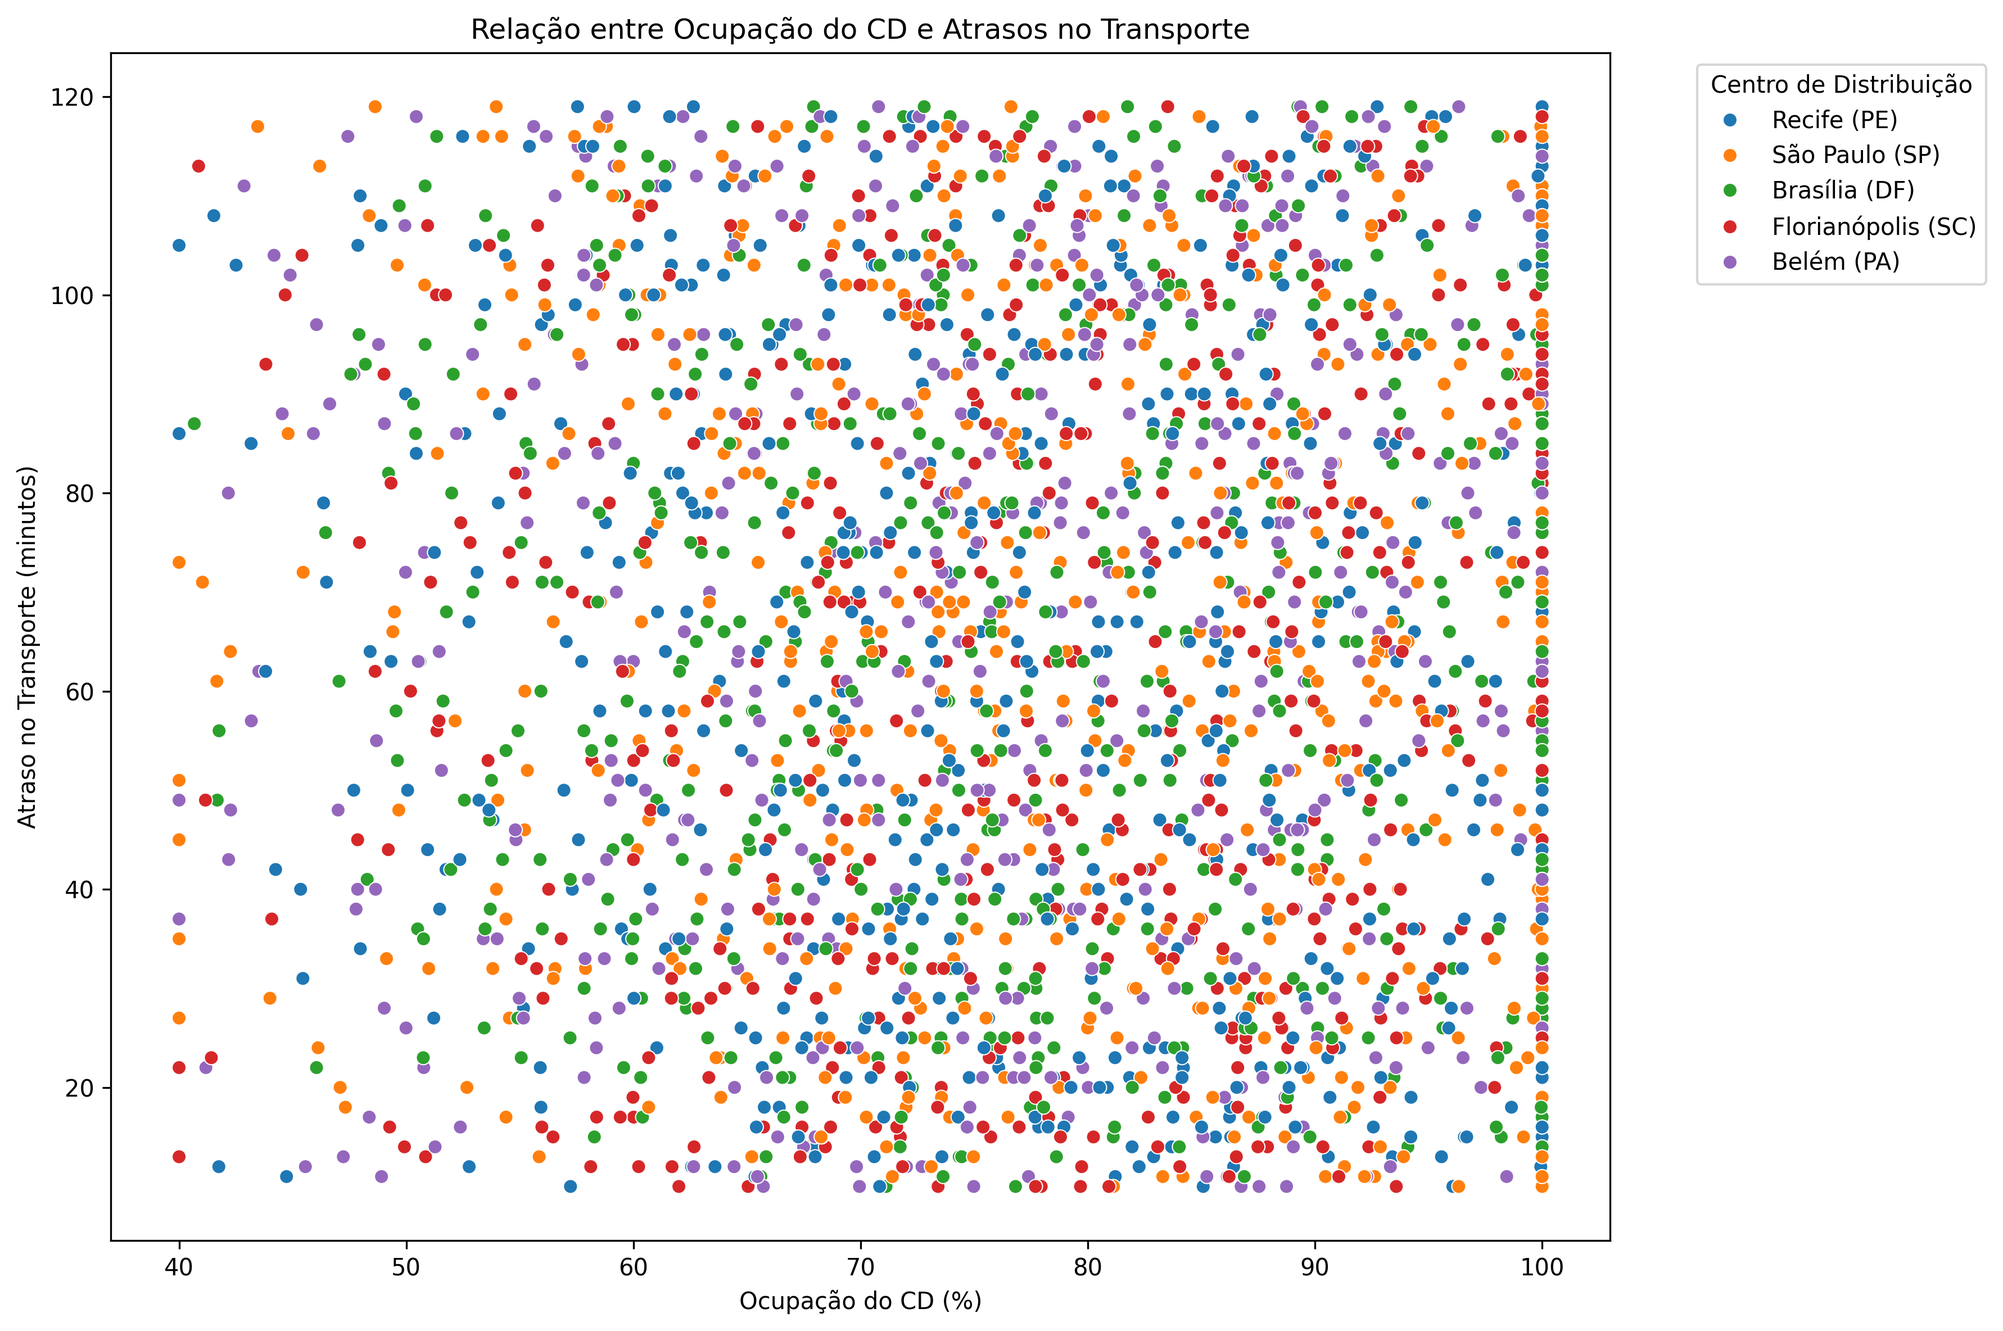
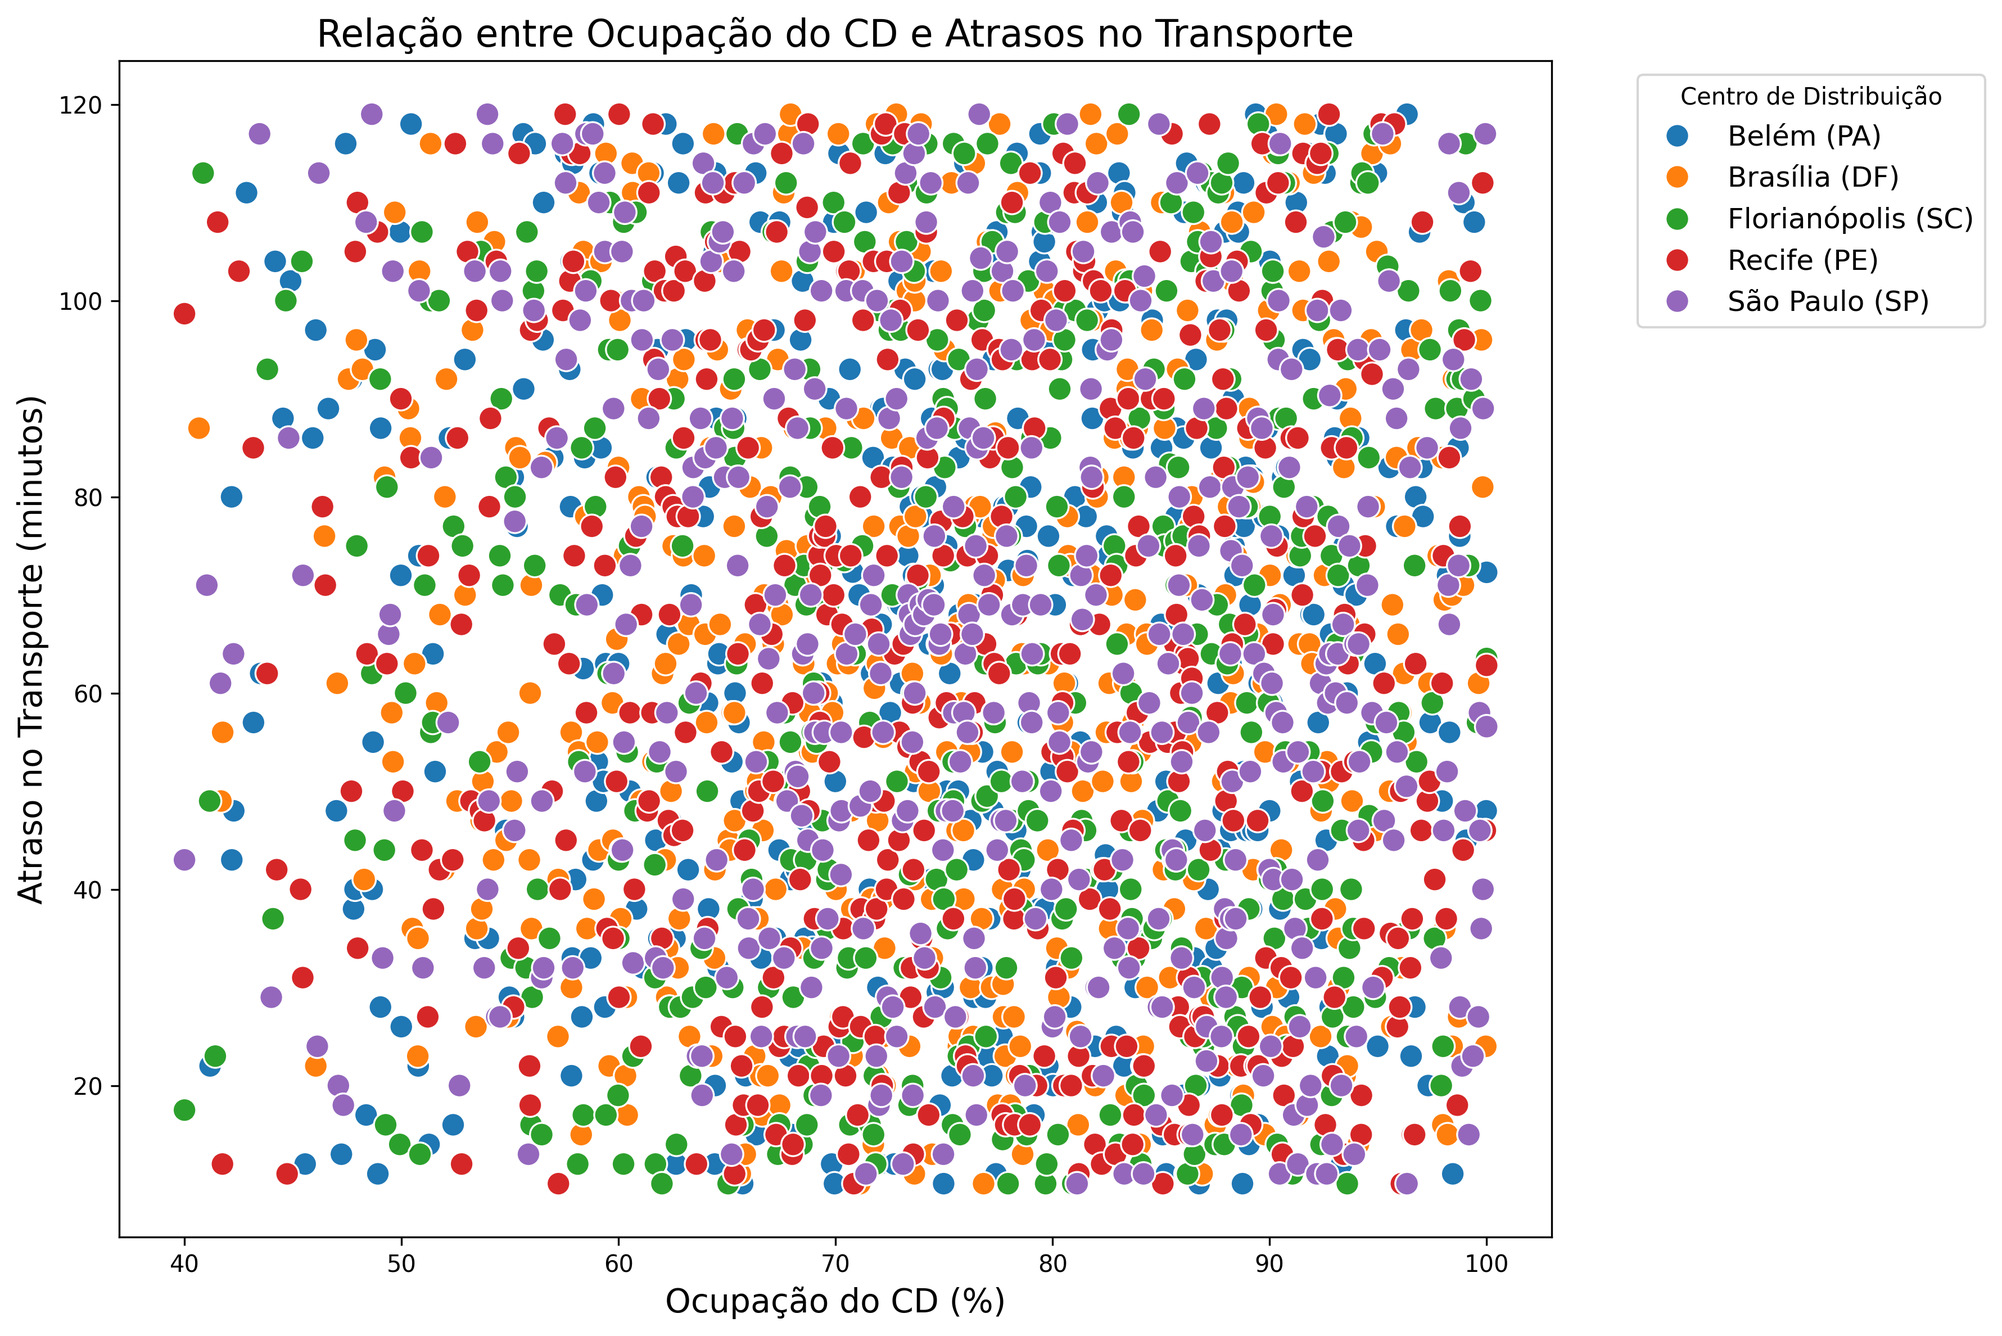
fix: ajustando o gráfico de ocupação por atrasos

diff --git a/scripts/data_analysis.py b/scripts/data_analysis.py
@@ -2,6 +2,7 @@ import pandas as pd
 import matplotlib.pyplot as plt
 import seaborn as sns
 import os
+from unidecode import unidecode
 
 
 PATH_RESOURCES = os.path.join(
@@ -41,12 +42,13 @@ df.sort_values("mes_ano", inplace=True)
 
 print(
     """
-    -----------------------------------------------------------------------------------------------------
-    Gráfico 1: Ocupação Média dos Centros de Distribuição por Mês/Ano
-    Este gráfico mostra a ocupação média de cada centro de distribuição ao longo dos meses/anos.
-    Ele ajuda a identificar sazonalidades e períodos críticos de alta ocupação em cada CD.
-    -----------------------------------------------------------------------------------------------------
-    """
+-----------------------------------------------------------------------------------------------------
+Gráfico 1: Ocupação Média dos Centros de Distribuição por Mês/Ano
+Este gráfico mostra a ocupação média de cada centro de distribuição ao longo dos meses/anos.
+Ele ajuda a identificar sazonalidades e períodos críticos de alta ocupação em cada CD.
+-----------------------------------------------------------------------------------------------------
+    """,
+    end="",
 )
 grouped_data = (
     df.groupby(["mes_ano", "centro_distribuicao"])["percentual_ocupacao_CD"]
@@ -71,12 +73,13 @@ plt.show()
 
 print(
     """
-    -----------------------------------------------------------------------------------------------------
-    Gráfico 2: Heatmap de correlações entre variáveis relacionadas a atrasos
-    Este gráfico mostra as correlações entre variáveis como tempo total de processamento,
-    atraso no transporte e quantidade de itens. Ele ajuda a identificar relações entre essas variáveis.
-    -----------------------------------------------------------------------------------------------------
-"""
+-----------------------------------------------------------------------------------------------------
+Gráfico 2: Heatmap de correlações entre variáveis relacionadas a atrasos
+Este gráfico mostra as correlações entre variáveis como tempo total de processamento,
+atraso no transporte e quantidade de itens. Ele ajuda a identificar relações entre essas variáveis.
+-----------------------------------------------------------------------------------------------------
+""",
+    end="",
 )
 correlation_matrix = df[
     [
@@ -103,12 +106,13 @@ plt.show()
 
 print(
     """
-    -----------------------------------------------------------------------------------------------------
-    Gráfico 3: Boxplot de atrasos por centro de distribuição
-    Este gráfico mostra a distribuição dos atrasos no transporte para cada centro de distribuição.
-    Ele ajuda a identificar quais CDs têm maior variação ou problemas relacionados a atrasos.
-    -----------------------------------------------------------------------------------------------------
-"""
+-----------------------------------------------------------------------------------------------------
+Gráfico 3: Boxplot de atrasos por centro de distribuição
+Este gráfico mostra a distribuição dos atrasos no transporte para cada centro de distribuição.
+Ele ajuda a identificar quais CDs têm maior variação ou problemas relacionados a atrasos.
+-----------------------------------------------------------------------------------------------------
+""",
+    end="",
 )
 plt.figure(figsize=(12, 8))
 sns.boxplot(
@@ -131,11 +135,12 @@ plt.show()
 
 print(
     """
-    -----------------------------------------------------------------------------------------------------
-    Gráfico 4: Boxplots para Variáveis Críticas
-    Este gráfico exibe boxplots das variáveis relacionadas ao tempo e ocupação.
-    -----------------------------------------------------------------------------------------------------
-"""
+-----------------------------------------------------------------------------------------------------
+Gráfico 4: Boxplots para Variáveis Críticas
+Este gráfico exibe boxplots das variáveis relacionadas ao tempo e ocupação.
+-----------------------------------------------------------------------------------------------------
+""",
+    end="",
 )
 fig, axes = plt.subplots(2, 2, figsize=(14, 10))
 sns.boxplot(
@@ -174,18 +179,19 @@ axes[1, 1].set_title("Boxplot do Percentual de Ocupação do CD", fontsize=14)
 axes[1, 1].set_ylabel("Percentual de Ocupação (%)", fontsize=12)
 axes[1, 1].tick_params(axis="y", labelsize=10)
 fig.tight_layout()
-plt.savefig(os.path.join(PATH_IMAGES, "boxplots_variaveis_criticas.png"), dpi=900)
+plt.savefig(os.path.join(PATH_IMAGES, "boxplots_variaveis_criticas.png"), dpi=300)
 plt.show()
 
 
 print(
     """
-    -----------------------------------------------------------------------------------------------------
-    Gráfico 5: Análise dos itens mais atrasados por categoria
-    Este gráfico mostra quais categorias de produtos têm O maior número absoluto de pedidos atrasados.
-    Ele ajuda a entender quais tipos de produtos enfrentam mais problemas logísticos.
-    -----------------------------------------------------------------------------------------------------
-"""
+-----------------------------------------------------------------------------------------------------
+Gráfico 5: Análise dos itens mais atrasados por categoria
+Este gráfico mostra quais categorias de produtos têm O maior número absoluto de pedidos atrasados.
+Ele ajuda a entender quais tipos de produtos enfrentam mais problemas logísticos.
+-----------------------------------------------------------------------------------------------------
+""",
+    end="",
 )
 itens_atrasados = (
     df[df["status_pedido"] == "Atrasado"]
@@ -210,25 +216,37 @@ plt.show()
 
 print(
     """
-    -----------------------------------------------------------------------------------------------------
-    Gráfico 6: Scatterplot da relação entre ocupação do CD e atrasos no transporte
-    Este gráfico mostra como a ocupação do CD está relacionada aos atrasos no transporte,
-    com destaque para cada centro de distribuição. Ele ajuda a entender se CDs mais ocupados 
-    têm maior probabilidade de gerar atrasos.
-    -----------------------------------------------------------------------------------------------------
-"""
+-----------------------------------------------------------------------------------------------------
+Gráfico 6: Scatterplot da relação entre ocupação do CD e atrasos no transporte
+Este gráfico mostra como a ocupação do CD está relacionada aos atrasos no transporte,
+com destaque para cada centro de distribuição. Ele ajuda a entender se CDs mais ocupados 
+têm maior probabilidade de gerar atrasos.
+-----------------------------------------------------------------------------------------------------
+""",
+    end="",
 )
+
+df_atrasados = df[df["status_pedido"] == "Atrasado"]
+df_grouped = df_atrasados.groupby(
+    ["centro_distribuicao", "percentual_ocupacao_CD"], as_index=False
+).agg({"atraso_transporte_min": "mean"})
 plt.figure(figsize=(12, 8))
 sns.scatterplot(
-    data=df[df["status_pedido"] == "Atrasado"],
+    data=df_grouped,
     x="percentual_ocupacao_CD",
     y="atraso_transporte_min",
     hue="centro_distribuicao",
+    s=100,
 )
-plt.title("Relação entre Ocupação do CD e Atrasos no Transporte")
-plt.xlabel("Ocupação do CD (%)")
-plt.ylabel("Atraso no Transporte (minutos)")
-plt.legend(title="Centro de Distribuição", bbox_to_anchor=(1.05, 1), loc="upper left")
+plt.title("Relação entre Ocupação do CD e Atrasos no Transporte", fontsize=16)
+plt.xlabel("Ocupação do CD (%)", fontsize=14)
+plt.ylabel("Atraso no Transporte (minutos)", fontsize=14)
+plt.legend(
+    title="Centro de Distribuição",
+    bbox_to_anchor=(1.05, 1),
+    loc="upper left",
+    fontsize=12,
+)
 plt.tight_layout()
 plt.savefig(
     os.path.join(PATH_IMAGES, "relacao_ocupacao_atrasos.png"),
@@ -237,15 +255,61 @@ plt.savefig(
 )
 plt.show()
 
+print(
+    """
+-----------------------------------------------------------------------------------------------------
+Gráficos 7: Relação de Categorias de maior atraso por centro de distribuição
+Este gráfico mostra as categorias que possuem maior atraso por CD.
+Ele ajuda a identificar as categorias mais agravantes em relação ao atraso como um todo. 
+-----------------------------------------------------------------------------------------------------
+    """,
+    end="",
+)
+
+df_atrasados = df[df["status_pedido"] == "Atrasado"]
+df_grouped_cd_category = (
+    df_atrasados.groupby(["centro_distribuicao", "categoria_produto"])
+    .agg({"atraso_transporte_min": "sum"})
+    .reset_index()
+)
+cds = df_grouped_cd_category["centro_distribuicao"].unique()
+for cd in cds:
+    plt.figure(figsize=(10, 6))
+    cd_data = df_grouped_cd_category[
+        df_grouped_cd_category["centro_distribuicao"] == cd
+    ]
+    cd_nome_formatado = unidecode(cd)
+    sns.barplot(
+        data=cd_data,
+        x="categoria_produto",
+        y="atraso_transporte_min",
+        hue="categoria_produto",
+    )
+    plt.title(f"Relação de Categorias de Maior Atraso para o CD: {cd}", fontsize=14)
+    plt.xlabel("Categoria de Produto", fontsize=12)
+    plt.ylabel("Total de Atrasos (minutos)", fontsize=12)
+    plt.xticks(rotation=45)
+    plt.tight_layout()
+    plt.savefig(
+        os.path.join(
+            PATH_IMAGES,
+            f"relacao_categorias_atraso_{cd_nome_formatado.replace(' ', '_')}.png",
+        ),
+        dpi=300,
+        bbox_inches="tight",
+    )
+    plt.show()
+
 
 print(
     """
-    -----------------------------------------------------------------------------------------------------
-    Gráfico 7: Quantidade total de itens transportados por categoria
-    Este gráfico mostra o volume total transportado para cada categoria de produto.
-    Ele ajuda a identificar quais categorias têm maior demanda logística.
-    -----------------------------------------------------------------------------------------------------
-"""
+-----------------------------------------------------------------------------------------------------
+Gráfico 8: Quantidade total de itens transportados por categoria
+Este gráfico mostra o volume total transportado para cada categoria de produto.
+Ele ajuda a identificar quais categorias têm maior demanda logística.
+-----------------------------------------------------------------------------------------------------
+""",
+    end="",
 )
 itens_transportados = (
     df.groupby("categoria_produto")["quantidade_itens"]
@@ -269,10 +333,11 @@ plt.show()
 
 print(
     """
-      -----------------------------------------------------------------------------------------------------
-                                                 INSIGHTS
-      -----------------------------------------------------------------------------------------------------
-      """
+-----------------------------------------------------------------------------------------------------
+                                            INSIGHTS
+-----------------------------------------------------------------------------------------------------
+      """,
+    end="",
 )
 print("\n1. Padrões Temporais:")
 meses_maior_volume = (

diff --git a/docs/dados_gerados_infos.md b/docs/dados_gerados_infos.md
@@ -1,18 +1,18 @@
- ## Relação de Dados Gerados ##
+## Relação de Dados Gerados
 
-| Coluna                     | Descrição                                                    | Tipo         | Exemplo                 |
-| -------------------------- | ------------------------------------------------------------ | ------------ | ----------------------- |
-| id_pedido                  | Identificador único do pedido                                | Inteiro      | 102345                  |
-| data_hora_pedido           | Data e hora da criação do pedido                             | Datetime     | 2025-03-15 14:32        |
-| centro_distribuicao        | CD onde o pedido foi processado                               | Categórico   | São Paulo (SP)          |
-| tempo_separacao_min        | Tempo (minutos) para separar o pedido                         | Numérico     | 18.5                    |
-| tempo_embalagem_min        | Tempo (minutos) para embalar                                  | Numérico     | 5.2                     |
-| tempo_total_processamento_min | Tempo total para processar pedido (separação + embalagem + expedição) | Numérico     | 34.7                    |
-| status_pedido              | Status final do pedido                                         | Categórico   | "Entregue" / "Atrasado"  |
-| percentual_ocupacao_CD     | Ocupação do centro de distribuição no momento do pedido (%)     | Numérico     | 82.3                    |
-| qtd_pedidos_dia_CD         | Quantidade total de pedidos processados no CD no dia         | Numérico     | 12.453                  |
-| erro_picking               | Pedido teve erro na separação?                                | Binário      | 0 (não) / 1 (sim)       |
-| atraso_transporte_min      | Tempo de atraso no transporte (se houver)                     | Numérico     | 12.1                    |
-| categoria_produto          | Tipo de produto enviado                                       | Categórico   | "Eletrodoméstico", "Vestuário" |
-| quantidade_itens           | Quantidade de itens no pedido                                  | Numérico     | 3                       |
-| peso_total_kg              | Peso total da carga do pedido                                 | Numérico     | 1.8                     |
+| Coluna                        | Descrição                                                             | Tipo       | Exemplo                        |
+| ----------------------------- | --------------------------------------------------------------------- | ---------- | ------------------------------ |
+| id_pedido                     | Identificador único do pedido                                         | Inteiro    | 102345                         |
+| data_hora_pedido              | Data e hora da criação do pedido                                      | Datetime   | 2025-03-15 14:32               |
+| centro_distribuicao           | CD onde o pedido foi processado                                       | Categórico | São Paulo (SP)                 |
+| tempo_separacao_min           | Tempo (minutos) para separar o pedido                                 | Numérico   | 18.5                           |
+| tempo_embalagem_min           | Tempo (minutos) para embalar                                          | Numérico   | 5.2                            |
+| tempo_total_processamento_min | Tempo total para processar pedido (separação + embalagem + expedição) | Numérico   | 34.7                           |
+| status_pedido                 | Status final do pedido                                                | Categórico | "Entregue" / "Atrasado"        |
+| percentual_ocupacao_CD        | Ocupação do centro de distribuição no momento do pedido (%)           | Numérico   | 82.3                           |
+| qtd_pedidos_dia_CD            | Quantidade total de pedidos processados no CD no dia                  | Numérico   | 12.453                         |
+| erro_picking                  | Pedido teve erro na separação?                                        | Binário    | 0 (não) / 1 (sim)              |
+| atraso_transporte_min         | Tempo de atraso no transporte (se houver)                             | Numérico   | 12.1                           |
+| categoria_produto             | Tipo de produto enviado                                               | Categórico | "Eletrodoméstico", "Vestuário" |
+| quantidade_itens              | Quantidade de itens no pedido                                         | Numérico   | 3                              |
+| peso_total_kg                 | Peso total da carga do pedido                                         | Numérico   | 1.8                            |

diff --git a/docs/graficos_gerados_infos.md b/docs/graficos_gerados_infos.md
@@ -54,6 +54,18 @@
 
 <hr>
 
+### Relação entre Categorias de maior atraso por CDs
+
+| CD                 | Categoria com maior atraso | Arquivo                                                                                                                             |
+| ------------------ | -------------------------- | ----------------------------------------------------------------------------------------------------------------------------------- |
+| Belém (PA)         | Eletrônicos                | <a href="../resources/images/relacao_categorias_atraso_Belem_(PA).png">relacao*categorias_atraso_Belem*(PA).png</a>                 |
+| Brasília (DF)      | Vestuário                  | <a href="../resources/images/relacao_categorias_atraso_Brasilia_(DF).png">relacao*categorias_atraso_Brasilia*(DF).png</a>           |
+| Florianópolis (SC) | Brinquedos                 | <a href="../resources/images/relacao_categorias_atraso_Florianopolis_(SC).png">relacao*categorias_atraso_Florianopolis*(SC).png</a> |
+| Recife (PE)        | Alimentos                  | <a href="../resources/images/relacao_categorias_atraso_Recife_(PE).png">relacao*categorias_atraso_Recife*(PE).png</a>               |
+| São Paulo (SP)     | Vestuário                  | <a href="../resources/images/relacao_categorias_atraso_Sao_Paulo_(SP).png">relacao*categorias_atraso_Sao_Paulo*(SP).png</a>         |
+
+<hr>
+
 ### Quantidade Total de Itens Transportados por Categoria
 
 <img src="../resources/images/quantidade_itens_transportados_por_categoria.png" />
